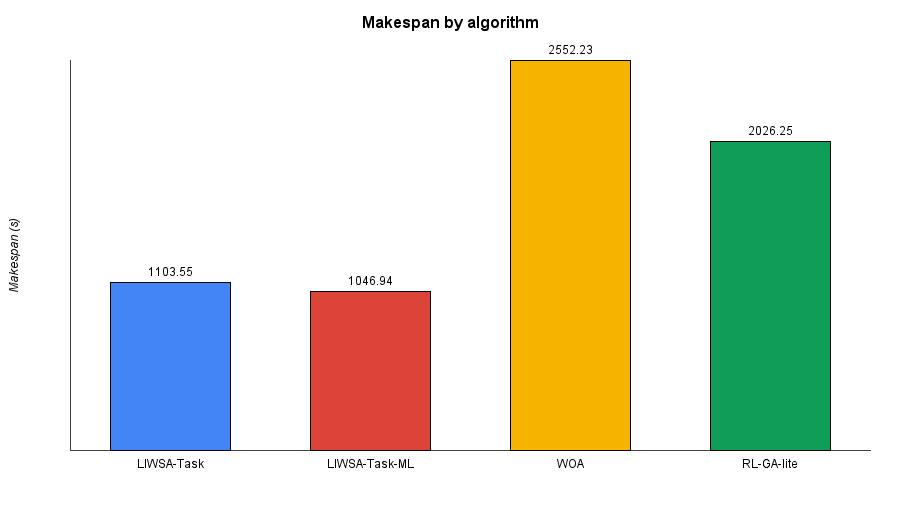
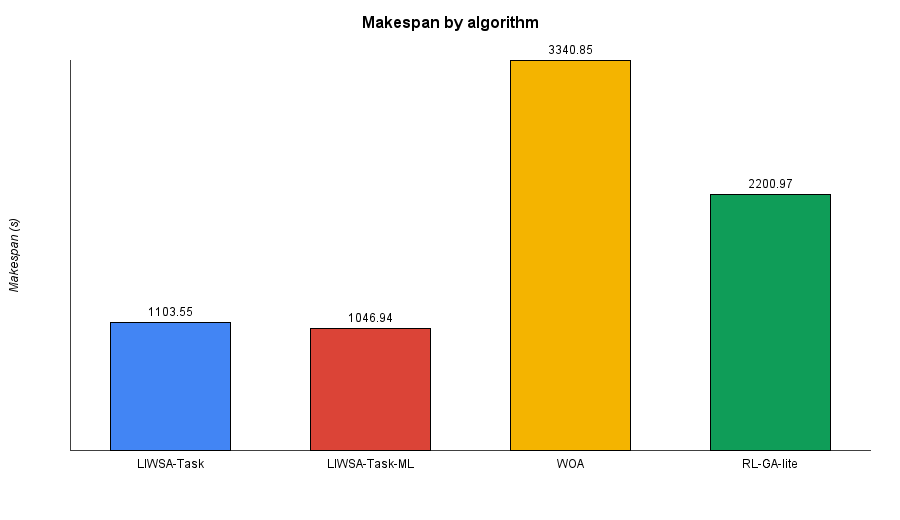
All code bugs resolved.

diff --git a/modules/liwsa-multicloud/src/main/java/org/liwsa/multicloud/cloud/CloudProviderFactory.java b/modules/liwsa-multicloud/src/main/java/org/liwsa/multicloud/cloud/CloudProviderFactory.java
@@ -78,7 +78,14 @@ public final class CloudProviderFactory {
                     peList,
                     new VmSchedulerTimeShared(peList)));
         }
-
+        for (Host h : hosts) {
+            System.out.println(spec.getName() + " Host#" + h.getId()
+                + " pes=" + h.getNumberOfPes()
+                + " totalMips=" + h.getTotalMips()
+                + " ram=" + h.getRam()
+                + " storage=" + h.getStorage()
+                + " bw=" + h.getBw());
+        }
         // Per-VM pricing lives on ResourceCandidate/VmTypeSpec, not on the
         // datacenter-wide flat cost fields here, since providers in this
         // framework price per VM type rather than uniformly.
@@ -95,8 +102,9 @@ public final class CloudProviderFactory {
         int localIndex = 0;
         for (VmTypeSpec type : spec.getVmTypes()) {
             for (int inst = 0; inst < spec.getInstancesPerType(); inst++) {
-                Vm vm = new Vm(vmId, -1, type.getMips(), type.getPes(), (int) type.getRamMb(),
-                        type.getBwMbps(), type.getStorageMb(), "Xen", new CloudletSchedulerTimeShared());
+            	double mipsPerCore = type.getMips() / type.getPes();
+            	Vm vm = new Vm(vmId, -1, mipsPerCore, type.getPes(), (int) type.getRamMb(),
+            	        type.getBwMbps(), type.getStorageMb(), "Xen", new CloudletSchedulerTimeShared());
                 vms.add(vm);
                 candidates.add(new ResourceCandidate(localIndex, datacenter.getId(), spec.getName(),
                         type.getMips(), type.getPes(), type.getRamMb(), type.getBwMbps(),

diff --git a/modules/cloudsim/src/main/java/org/cloudbus/cloudsim/VmAllocationWithSelectionPolicy.java b/modules/cloudsim/src/main/java/org/cloudbus/cloudsim/VmAllocationWithSelectionPolicy.java
@@ -9,6 +9,7 @@ import java.util.*;
 /**
  * Created by sareh on 16/12/15.
  * Modified by Remo Andreoli (March 2024)
+ * Modified by Mohammed Ala'anzy 15 July 2026
  */
 public class VmAllocationWithSelectionPolicy extends VmAllocationPolicy {
     private SelectionPolicy<HostEntity> selectionPolicy;
@@ -41,8 +42,15 @@ public class VmAllocationWithSelectionPolicy extends VmAllocationPolicy {
             if (selectedHost.isSuitableForGuest(guest)) {
                 return selectedHost;
             } else {
+                System.out.println("REJECT host#" + selectedHost.getId()
+                    + " peCap=" + selectedHost.getGuestScheduler().getPeCapacity()
+                    + " reqMaxMips=" + guest.getCurrentRequestedMaxMips()
+                    + " availMips=" + selectedHost.getGuestScheduler().getAvailableMips()
+                    + " reqTotalMips=" + guest.getCurrentRequestedTotalMips()
+                    + " ramOK=" + selectedHost.getGuestRamProvisioner().isSuitableForGuest(guest, guest.getCurrentRequestedRam())
+                    + " bwOK=" + selectedHost.getGuestBwProvisioner().isSuitableForGuest(guest, guest.getCurrentRequestedBw()));
                 excludedHostCandidates.add(selectedHost);
-                tries ++;
+                tries++;
             }
             } while (tries < getHostList().size());
         return null;

diff --git a/modules/cloudsim/src/main/java/org/cloudbus/cloudsim/EX/DatacenterBrokerEX.java b/modules/cloudsim/src/main/java/org/cloudbus/cloudsim/EX/DatacenterBrokerEX.java
@@ -23,6 +23,7 @@ import java.util.logging.Level;
  * 
  * @author nikolay.grozev
  * @author Remo Andreoli
+ * @author Dr. Mohammed Ala'anzy 15 July 2026
  */
 public class DatacenterBrokerEX extends DatacenterBroker {
     /** Number of VM destructions requested. */
@@ -163,12 +164,13 @@ public class DatacenterBrokerEX extends DatacenterBroker {
         }
 
         CloudSimTags tag = ev.getTag();
-        if (tag == CloudActionTags.VM_CREATE_ACK) {
+        if (tag == CloudActionTags.VM_CREATE_ACK) { //edited by Dr. Mohammed Ala'anzy
             int[] data = (int[]) ev.getData();
             int vmId = data[1];
+            int result = data[2];
 
             GuestEntity vm = VmList.getById(getGuestList(), vmId);
-            if (vm.isBeingInstantiated()) {
+            if (result == CloudSimTags.TRUE && vm.isBeingInstantiated()) {
                 vm.setBeingInstantiated(false);
             }
             processVmCreateAck(ev);

diff --git a/modules/liwsa-multicloud/src/main/java/org/liwsa/multicloud/ExperimentDemo.java b/modules/liwsa-multicloud/src/main/java/org/liwsa/multicloud/ExperimentDemo.java
@@ -38,6 +38,7 @@ import java.util.Random;
  *
  * @author LIWSA Multi-Cloud Framework
  */
+@SuppressWarnings("unused")
 public final class ExperimentDemo {
 
     private ExperimentDemo() { }